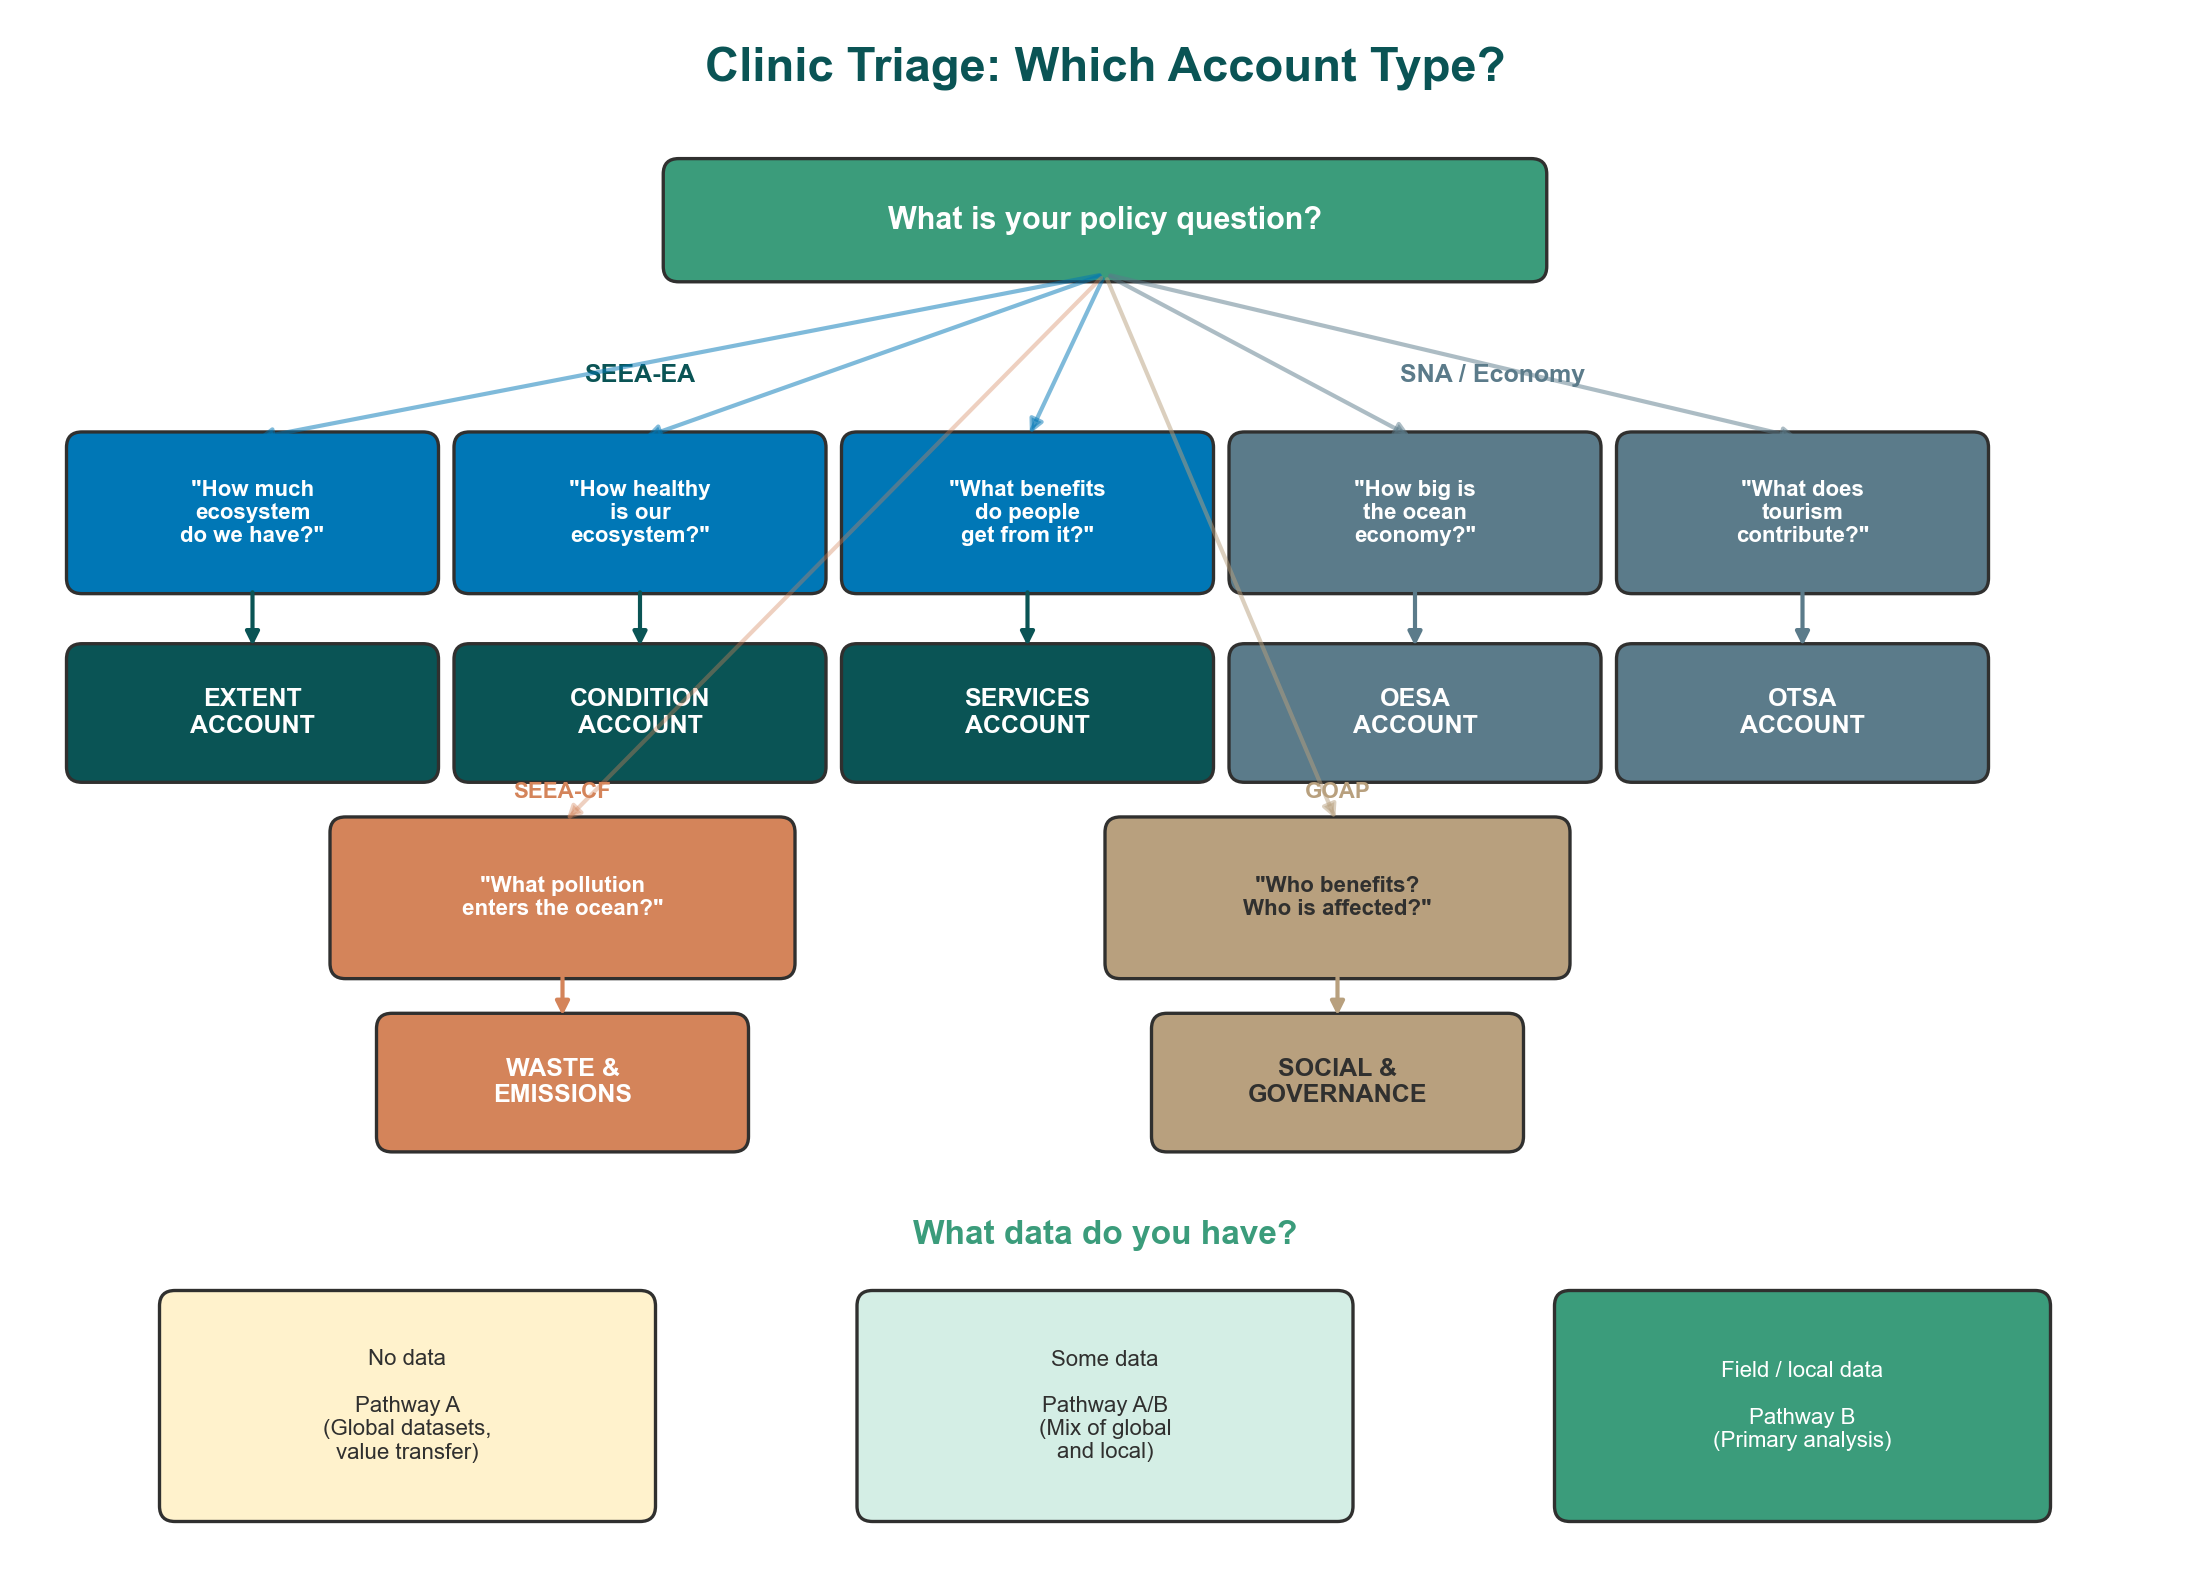
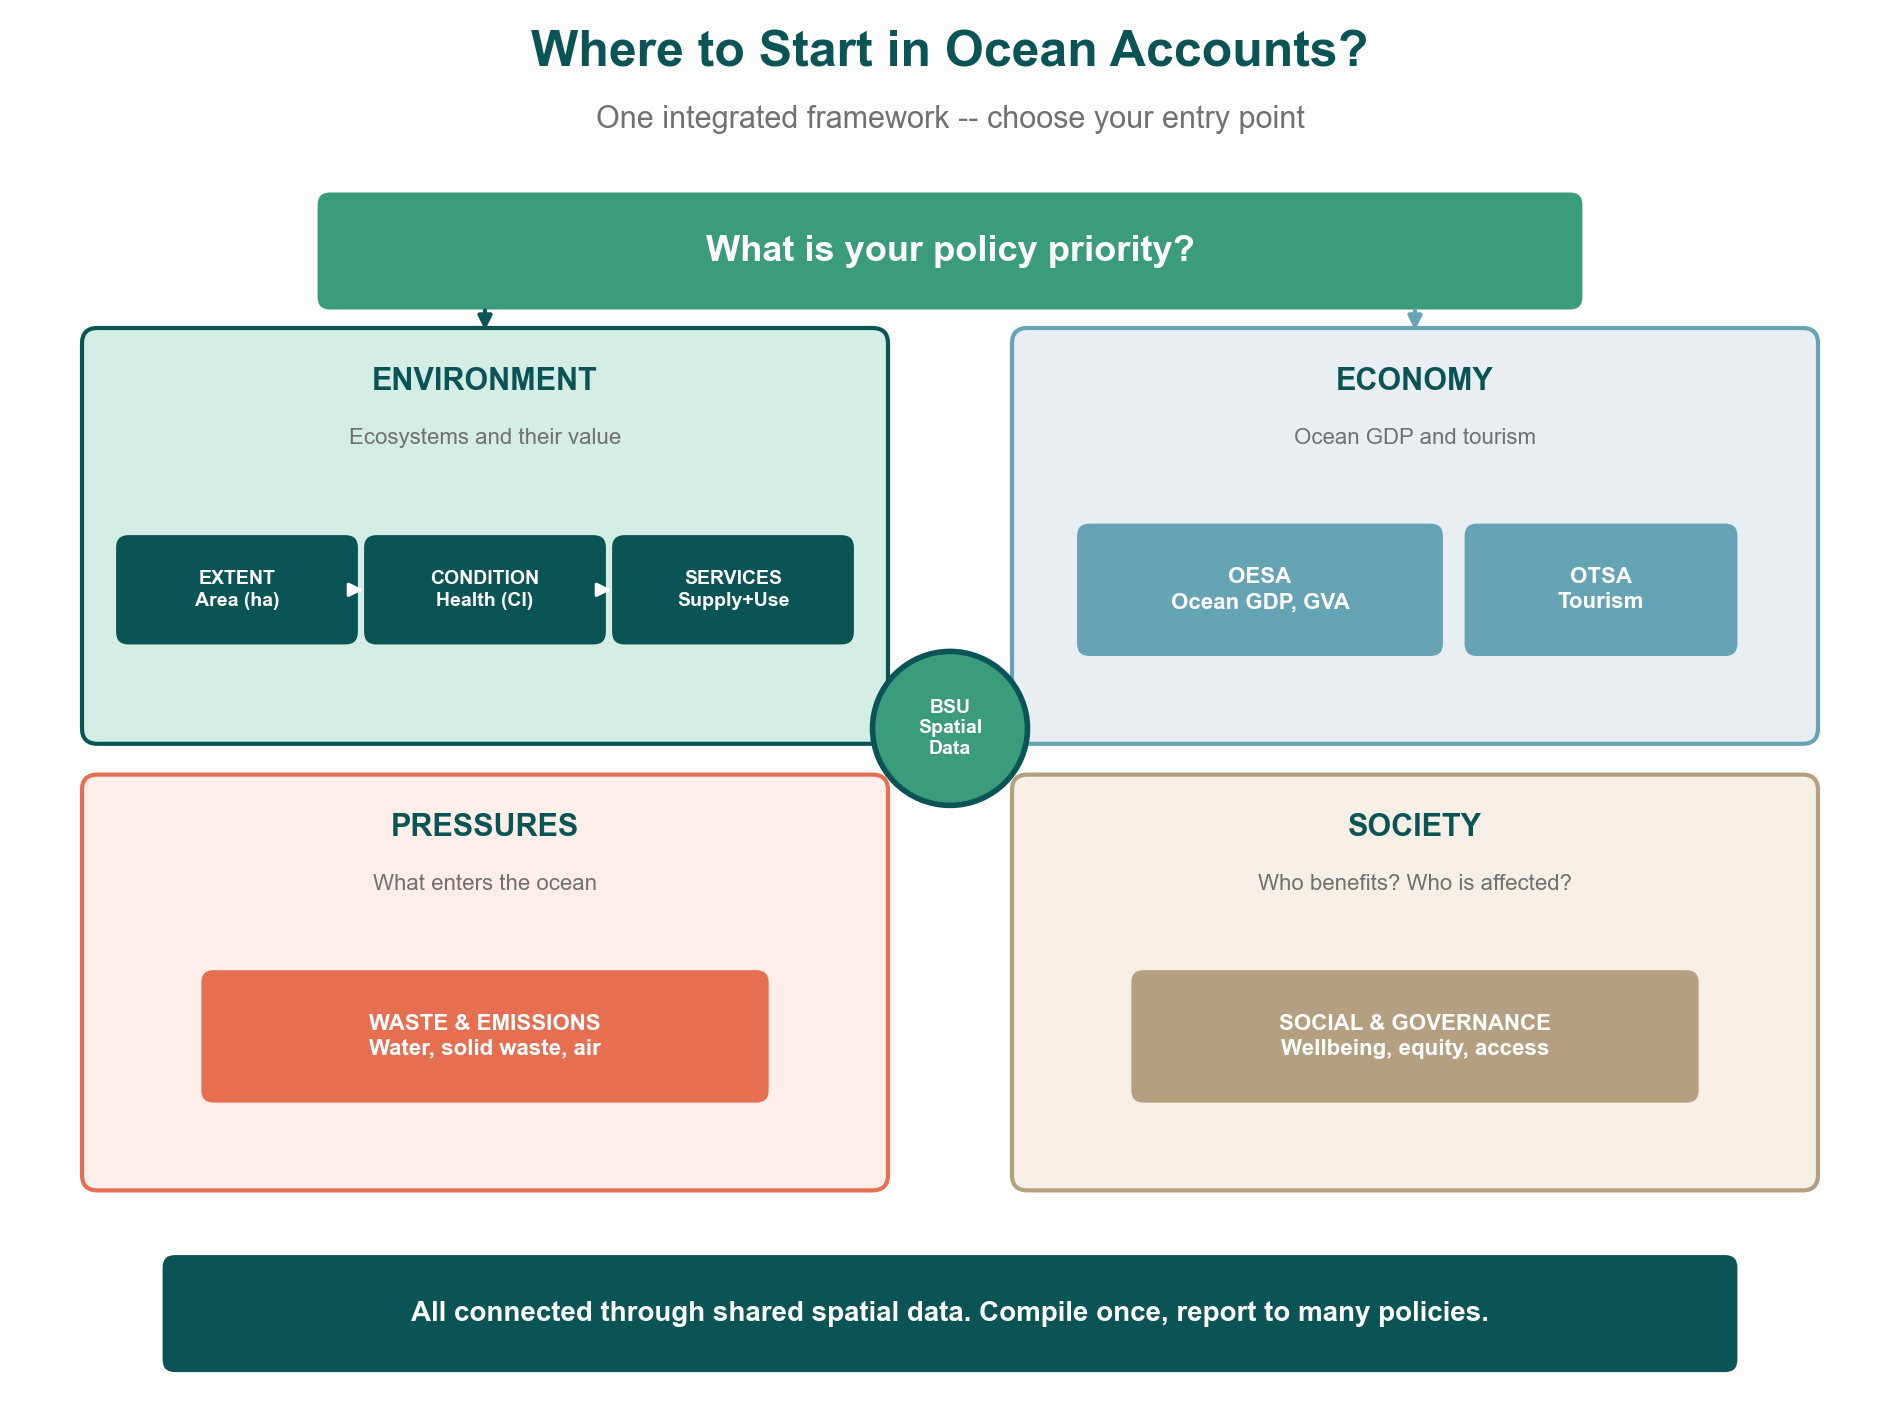
Clean rewrite of overview and triage PNG diagrams
Completely rewritten for clarity -- no messy arrows, no overlapping text:

diagram_overview.png:
  Simple 4-level layout: Compile Once → OA Framework (single box
  containing all components in a clean grid with BSU band) → Report
  Many → 5 policy outputs. No crossing arrows. All text horizontal.

diagram_triage.png:
  Clean 2x2 grid: Environment (extent→condition→services) | Economy
  (OESA, OTSA) | Pressures (waste) | Society (social & governance).
  BSU circle at center connecting all. Title: "Where to Start in
  Ocean Accounts?" Bottom: "Compile once, report to many policies."

Both convey ONE integrated framework, not separate account types.

diff --git a/s-s-event-bogor/sessions/day-2/clinic/generate_clean_diagrams.py b/s-s-event-bogor/sessions/day-2/clinic/generate_clean_diagrams.py
@@ -1,0 +1,251 @@
+#!/usr/bin/env python3
+"""Generate CLEAN overview and triage diagrams. Simple layouts, no mess."""
+
+import matplotlib
+matplotlib.use("Agg")
+import matplotlib.pyplot as plt
+from matplotlib.patches import FancyBboxPatch
+from pathlib import Path
+
+# GOAP Colors
+TEAL = "#0A5455"
+GREEN = "#3B9C7B"
+MINT = "#D4EEE5"
+BODY = "#30302F"
+GRAY = "#717171"
+WHITE = "#FFFFFF"
+LIGHT_BLUE = "#B5D0D6"
+BLUE_GRAY = "#66A3B5"
+TAN = "#B59F81"
+LIGHT_TAN = "#F5EFE6"
+ORANGE = "#E76F51"
+LIGHT_ORANGE = "#FDEEE9"
+LIGHT_GREEN = "#E8F5E9"
+
+
+def box(ax, x, y, w, h, text, color, textcolor=WHITE, fontsize=10, bold=True):
+    """Draw a clean rounded box with centered text."""
+    b = FancyBboxPatch((x - w/2, y - h/2), w, h,
+                       boxstyle="round,pad=0.08", facecolor=color,
+                       edgecolor="none", linewidth=0)
+    ax.add_patch(b)
+    weight = "bold" if bold else "normal"
+    ax.text(x, y, text, ha="center", va="center", fontsize=fontsize,
+            color=textcolor, fontfamily="Arial", fontweight=weight,
+            linespacing=1.3)
+
+
+def arrow_down(ax, x, y1, y2, color=GRAY):
+    """Simple downward arrow."""
+    ax.annotate("", xy=(x, y2), xytext=(x, y1),
+                arrowprops=dict(arrowstyle="-|>", color=color, lw=1.5))
+
+
+def arrow_right(ax, x1, x2, y, color=GRAY):
+    """Simple rightward arrow."""
+    ax.annotate("", xy=(x2, y), xytext=(x1, y),
+                arrowprops=dict(arrowstyle="-|>", color=color, lw=1.5))
+
+
+def save(fig, path):
+    fig.savefig(str(path), dpi=200, bbox_inches="tight", facecolor="white")
+    plt.close(fig)
+    print(f"  Created: {path}")
+
+
+# =========================================================================
+# OVERVIEW: Clean 4-level layout
+# =========================================================================
+def diagram_overview(outdir):
+    fig, ax = plt.subplots(figsize=(14, 9))
+    ax.set_xlim(0, 14)
+    ax.set_ylim(0, 9)
+    ax.axis("off")
+
+    # TITLE
+    ax.text(7, 8.7, "Ocean Accounts: One Framework, Many Policy Uses",
+            fontsize=18, ha="center", color=TEAL, fontfamily="Arial", fontweight="bold")
+
+    # LEVEL 1: COMPILE ONCE + data sources
+    box(ax, 7, 8.0, 6, 0.5, "COMPILE ONCE", GREEN, fontsize=13)
+
+    sources = ["Satellite\nimagery", "Field\nsurveys", "Government\nstatistics",
+               "Global\ndatasets", "Community\nknowledge"]
+    for i, s in enumerate(sources):
+        x = 2.0 + i * 2.5
+        box(ax, x, 7.2, 2.0, 0.55, s, LIGHT_BLUE, textcolor=BODY, fontsize=8, bold=False)
+        arrow_down(ax, x, 7.45, 7.75, GREEN)
+
+    # LEVEL 2: THE FRAMEWORK (one big container)
+    # Outer container
+    container = FancyBboxPatch((0.5, 2.8), 13, 4.0,
+                               boxstyle="round,pad=0.15", facecolor="#F8FAFA",
+                               edgecolor=TEAL, linewidth=2)
+    ax.add_patch(container)
+    ax.text(7, 6.55, "OCEAN ACCOUNTS FRAMEWORK", fontsize=12, ha="center",
+            color=TEAL, fontfamily="Arial", fontweight="bold")
+
+    # BSU band in the middle of the container
+    bsu = FancyBboxPatch((1.0, 4.55), 12, 0.5,
+                         boxstyle="round,pad=0.05", facecolor=GREEN,
+                         edgecolor="none")
+    ax.add_patch(bsu)
+    ax.text(7, 4.8, "Shared Spatial Framework: Basic Spatial Units (BSUs)",
+            fontsize=10, ha="center", color=WHITE, fontfamily="Arial", fontweight="bold")
+
+    # Top row: SEEA-EA ecological accounts (above BSU)
+    box(ax, 2.5, 5.7, 3.0, 0.7, "EXTENT\nEcosystem area (ha)", TEAL, fontsize=9)
+    box(ax, 6.0, 5.7, 3.0, 0.7, "CONDITION\nEcosystem health (CI)", TEAL, fontsize=9)
+    box(ax, 9.8, 5.7, 3.4, 0.7, "SERVICES\nSupply + Use (SUT)", TEAL, fontsize=9)
+    box(ax, 12.5, 5.7, 1.8, 0.7, "WASTE\nEmissions", ORANGE, fontsize=8)
+
+    # Arrows: extent → condition → services
+    arrow_right(ax, 4.1, 4.4, 5.7, TEAL)
+    arrow_right(ax, 7.6, 7.9, 5.7, TEAL)
+    ax.text(4.25, 5.95, "informs", fontsize=7, color=GRAY, ha="center", fontfamily="Arial")
+    ax.text(7.75, 5.95, "informs", fontsize=7, color=GRAY, ha="center", fontfamily="Arial")
+
+    # Bottom row: Economy + Society (below BSU)
+    box(ax, 3.5, 3.6, 4.5, 0.7, "OCEAN ECONOMY (OESA)\nOcean GDP, GVA, employment", BLUE_GRAY, fontsize=9)
+    box(ax, 9.5, 3.6, 4.5, 0.7, "SOCIAL & GOVERNANCE\nWellbeing, equity, access", TAN, fontsize=9)
+
+    # Simple vertical connectors from BSU to rows (no crossing)
+    for x in [2.5, 6.0, 9.8, 12.5]:
+        arrow_down(ax, x, 5.25, 5.05, GREEN)
+    for x in [3.5, 9.5]:
+        arrow_down(ax, x, 4.5, 4.05, GREEN)
+
+    # LEVEL 3: REPORT MANY
+    box(ax, 7, 2.1, 6, 0.5, "REPORT MANY", ORANGE, fontsize=13)
+
+    # Arrow from framework to report many
+    arrow_down(ax, 7, 2.75, 2.4, ORANGE)
+
+    # LEVEL 4: Policy boxes
+    policies = ["SDG 14\nreporting", "NDC /\nNBSAP", "Marine spatial\nplanning",
+                "Blue finance\n& investment", "National ocean\npolicy"]
+    for i, p in enumerate(policies):
+        x = 1.5 + i * 2.8
+        box(ax, x, 1.1, 2.3, 0.65, p, ORANGE, fontsize=8)
+
+    save(fig, outdir / "diagram_overview.png")
+
+
+# =========================================================================
+# TRIAGE: Clean 2x2 grid layout
+# =========================================================================
+def diagram_triage(outdir):
+    fig, ax = plt.subplots(figsize=(12, 9))
+    ax.set_xlim(0, 12)
+    ax.set_ylim(0, 9)
+    ax.axis("off")
+
+    # TITLE
+    ax.text(6, 8.7, "Where to Start in Ocean Accounts?",
+            fontsize=18, ha="center", color=TEAL, fontfamily="Arial", fontweight="bold")
+    ax.text(6, 8.3, "One integrated framework -- choose your entry point",
+            fontsize=11, ha="center", color=GRAY, fontfamily="Arial")
+
+    # TOP: Policy priority question
+    box(ax, 6, 7.5, 8, 0.6, "What is your policy priority?", GREEN, fontsize=13)
+
+    # 2x2 GRID of account groups
+    # Top-left: ENVIRONMENT
+    env_bg = FancyBboxPatch((0.5, 4.4), 5.0, 2.5,
+                            boxstyle="round,pad=0.1", facecolor=MINT,
+                            edgecolor=TEAL, linewidth=1.5)
+    ax.add_patch(env_bg)
+    ax.text(3.0, 6.6, "ENVIRONMENT", fontsize=11, ha="center",
+            color=TEAL, fontfamily="Arial", fontweight="bold")
+    ax.text(3.0, 6.25, "Ecosystems and their value", fontsize=8,
+            ha="center", color=GRAY, fontfamily="Arial")
+
+    box(ax, 1.4, 5.3, 1.4, 0.55, "EXTENT\nArea (ha)", TEAL, fontsize=7)
+    box(ax, 3.0, 5.3, 1.4, 0.55, "CONDITION\nHealth (CI)", TEAL, fontsize=7)
+    box(ax, 4.6, 5.3, 1.4, 0.55, "SERVICES\nSupply+Use", TEAL, fontsize=7)
+    # Arrows: extent → condition → services
+    ax.annotate("", xy=(2.25, 5.3), xytext=(2.15, 5.3),
+                arrowprops=dict(arrowstyle="-|>", color=WHITE, lw=1.2))
+    ax.annotate("", xy=(3.85, 5.3), xytext=(3.75, 5.3),
+                arrowprops=dict(arrowstyle="-|>", color=WHITE, lw=1.2))
+
+    # Top-right: ECONOMY
+    eco_bg = FancyBboxPatch((6.5, 4.4), 5.0, 2.5,
+                            boxstyle="round,pad=0.1", facecolor="#E8EEF2",
+                            edgecolor=BLUE_GRAY, linewidth=1.5)
+    ax.add_patch(eco_bg)
+    ax.text(9.0, 6.6, "ECONOMY", fontsize=11, ha="center",
+            color=TEAL, fontfamily="Arial", fontweight="bold")
+    ax.text(9.0, 6.25, "Ocean GDP and tourism", fontsize=8,
+            ha="center", color=GRAY, fontfamily="Arial")
+
+    box(ax, 8.0, 5.3, 2.2, 0.7, "OESA\nOcean GDP, GVA", BLUE_GRAY, fontsize=8)
+    box(ax, 10.2, 5.3, 1.6, 0.7, "OTSA\nTourism", BLUE_GRAY, fontsize=8)
+
+    # Bottom-left: PRESSURES
+    prs_bg = FancyBboxPatch((0.5, 1.5), 5.0, 2.5,
+                            boxstyle="round,pad=0.1", facecolor=LIGHT_ORANGE,
+                            edgecolor=ORANGE, linewidth=1.5)
+    ax.add_patch(prs_bg)
+    ax.text(3.0, 3.7, "PRESSURES", fontsize=11, ha="center",
+            color=TEAL, fontfamily="Arial", fontweight="bold")
+    ax.text(3.0, 3.35, "What enters the ocean", fontsize=8,
+            ha="center", color=GRAY, fontfamily="Arial")
+
+    box(ax, 3.0, 2.4, 3.5, 0.7, "WASTE & EMISSIONS\nWater, solid waste, air", ORANGE, fontsize=8)
+
+    # Bottom-right: SOCIETY
+    soc_bg = FancyBboxPatch((6.5, 1.5), 5.0, 2.5,
+                            boxstyle="round,pad=0.1", facecolor=LIGHT_TAN,
+                            edgecolor=TAN, linewidth=1.5)
+    ax.add_patch(soc_bg)
+    ax.text(9.0, 3.7, "SOCIETY", fontsize=11, ha="center",
+            color=TEAL, fontfamily="Arial", fontweight="bold")
+    ax.text(9.0, 3.35, "Who benefits? Who is affected?", fontsize=8,
+            ha="center", color=GRAY, fontfamily="Arial")
+
+    box(ax, 9.0, 2.4, 3.5, 0.7, "SOCIAL & GOVERNANCE\nWellbeing, equity, access", TAN, WHITE, fontsize=8)
+
+    # CENTER: BSU circle connecting all 4
+    circle = plt.Circle((6, 4.4), 0.5, facecolor=GREEN, edgecolor=TEAL, linewidth=2)
+    ax.add_patch(circle)
+    ax.text(6, 4.4, "BSU\nSpatial\nData", fontsize=7, ha="center", va="center",
+            color=WHITE, fontfamily="Arial", fontweight="bold")
+
+    # Simple lines from BSU to each quadrant (no arrows, just connections)
+    for (x, y) in [(3.0, 4.4), (9.0, 4.4), (3.0, 4.4), (9.0, 4.4)]:
+        pass  # The colored backgrounds touching the center already show connection
+
+    # Arrows from question to groups
+    arrow_down(ax, 3.0, 7.15, 6.95, TEAL)
+    arrow_down(ax, 9.0, 7.15, 6.95, BLUE_GRAY)
+
+    # BOTTOM MESSAGE
+    box(ax, 6, 0.6, 10, 0.6,
+        "All connected through shared spatial data. Compile once, report to many policies.",
+        TEAL, fontsize=10)
+
+    save(fig, outdir / "diagram_triage.png")
+
+
+def main():
+    outdir = Path("/Users/mariaalarcon/GitHub/ocean-accounts-expert/s-s-event-bogor/sessions/day-2/clinic/diagrams")
+    print("Generating clean diagrams...")
+    diagram_overview(outdir)
+    diagram_triage(outdir)
+
+    # Copy to notebooks
+    import shutil
+    nb = Path("/Users/mariaalarcon/GitHub/ocean-accounts-expert/s-s-event-bogor/print-notebooks")
+    d3 = Path("/Users/mariaalarcon/GitHub/ocean-accounts-expert/s-s-event-bogor/sessions/day-3/clinic-policy")
+
+    shutil.copy(outdir / "diagram_overview.png", nb / "00-overview/02-overview-pipeline.png")
+    shutil.copy(outdir / "diagram_triage.png", nb / "00-overview/01-triage-flowchart.png")
+    shutil.copy(outdir / "diagram_overview.png", d3 / "diagram_overview.png")
+    shutil.copy(outdir / "diagram_triage.png", d3 / "diagram_triage.png")
+    print("Copied to notebooks and day-3")
+    print("Done!")
+
+
+if __name__ == "__main__":
+    main()
